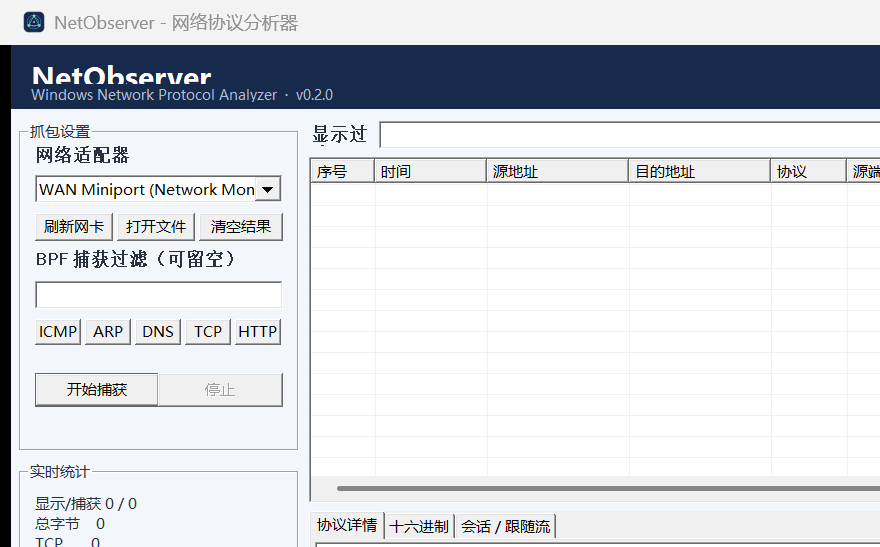
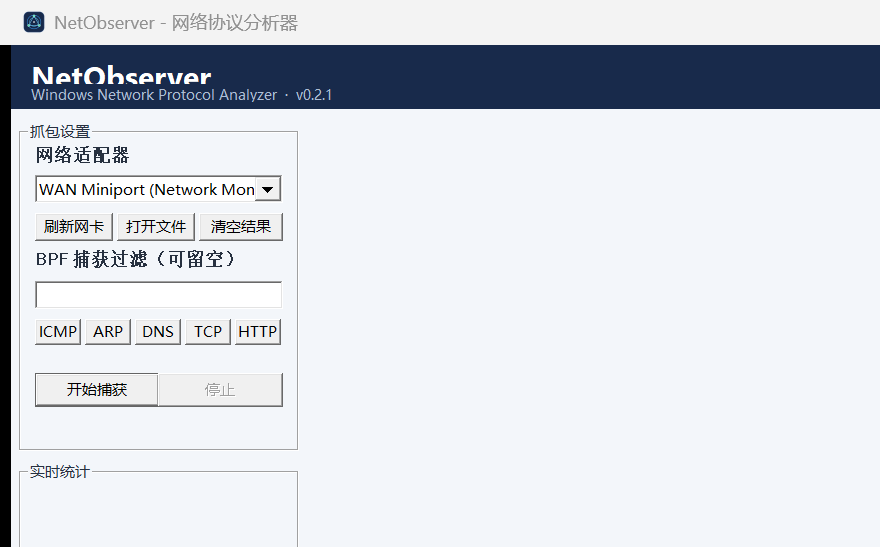
Fix capture stop responsiveness for v0.2.1

diff --git a/src/gui_main.cpp b/src/gui_main.cpp
@@ -118,6 +118,7 @@ struct AppState {
     netobserver::DisplayFilter displayFilter;
     netobserver::FlowTracker flowTracker;
     std::atomic_bool running{false};
+    std::atomic<int> pendingBatches{0};
     bool loadingOffline = false;
     std::thread worker;
     std::mutex engineMutex;
@@ -694,13 +695,24 @@ bool postPacketBatch(
 {
     if (records.empty())
         return true;
+    while (g_app.running.load() &&
+           g_app.pendingBatches.load() >= 2) {
+        Sleep(2);
+    }
+    if (!g_app.running.load()) {
+        records.clear();
+        return true;
+    }
+
     auto* payload = new std::vector<std::unique_ptr<PacketRecord>>(
         std::move(records));
+    g_app.pendingBatches.fetch_add(1);
     if (!PostMessageW(
             window,
             kMessagePacketBatch,
             0,
             reinterpret_cast<LPARAM>(payload))) {
+        g_app.pendingBatches.fetch_sub(1);
         delete payload;
         return false;
     }
@@ -1142,7 +1154,7 @@ void createHeader(HWND window, HINSTANCE instance)
         WS_CHILD | WS_VISIBLE | SS_LEFT,
         20, 10, 260, 30, window, nullptr, instance, nullptr);
     g_app.subtitle = CreateWindowExW(
-        0, L"STATIC", L"Windows Network Protocol Analyzer  ·  v0.2.0",
+        0, L"STATIC", L"Windows Network Protocol Analyzer  ·  v0.2.1",
         WS_CHILD | WS_VISIBLE | SS_LEFT,
         20, 39, 460, 18, window, nullptr, instance, nullptr);
     g_app.state = CreateWindowExW(
@@ -1540,6 +1552,7 @@ LRESULT CALLBACK windowProcedure(
         return 0;
     }
     case kMessagePacketBatch: {
+        g_app.pendingBatches.fetch_sub(1);
         std::unique_ptr<std::vector<std::unique_ptr<PacketRecord>>> batch(
             reinterpret_cast<
                 std::vector<std::unique_ptr<PacketRecord>>*>(lParam));

diff --git a/src/core/PcapNgWriter.cpp b/src/core/PcapNgWriter.cpp
@@ -117,7 +117,7 @@ bool PcapNgWriter::open(
     appendU16(shb, 1);
     appendU16(shb, 0);
     appendU64(shb, 0xFFFFFFFFFFFFFFFFULL);
-    appendOption(shb, 4, optionText("NetObserver 0.2.0"));
+    appendOption(shb, 4, optionText("NetObserver 0.2.1"));
     appendU16(shb, 0);
     appendU16(shb, 0);
     finishBlock(shb, impl_->output);

diff --git a/CHANGELOG.md b/CHANGELOG.md
@@ -1,5 +1,12 @@
 # Changelog
 
+## [0.2.1] - 2026-10-21
+
+### Fixed
+
+- Prevented high-rate packet batches from delaying the Stop button.
+- Limited outstanding UI batches so capture cancellation remains responsive.
+
 ## [0.2.0] - 2026-10-21
 
 ### Added
